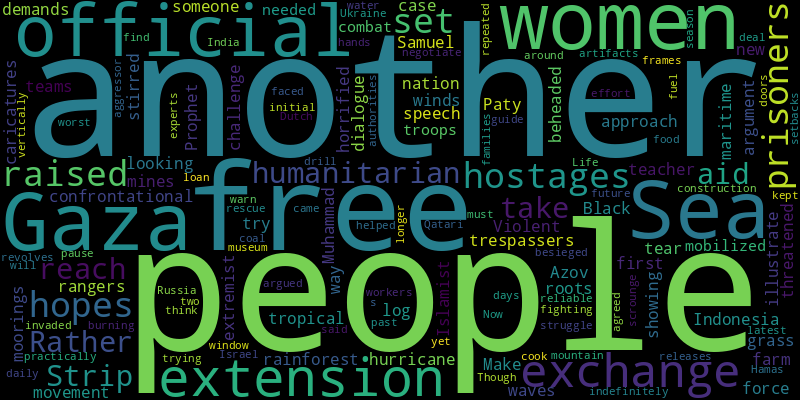
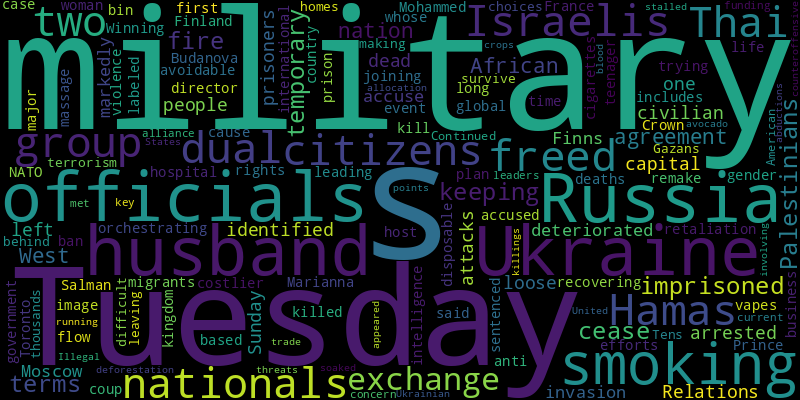
chore(bot): 😱 auto commit

diff --git a/README.md b/README.md
@@ -2,41 +2,41 @@
 Auto RSS New York Times and Generate Word Cloud
 
 ## New York Times Global News
-* The extension, and another exchange of hostages and prisoners, raised hopes that more people would be set free and more humanitarian aid would reach people in the Gaza Strip.
-* Rather than take a confrontational approach with trespassers looking to farm or log in a tropical rainforest in Indonesia, teams of women rangers try dialogue first.
-* Violent waves stirred by hurricane-force winds threatened to tear maritime mines from their moorings in the Sea of Azov and the Black Sea.
-* The teacher, Samuel Paty, was beheaded by an Islamist extremist in 2020 after showing caricatures of the Prophet Muhammad to illustrate free speech. The case horrified the nation.
-* “Make way for someone else,” a new grass-roots movement demands as women challenge the official argument that the mobilized troops are needed in combat indefinitely.
-* Life in besieged Gaza revolves around a daily struggle to find food and water. With practically no fuel or coal, families are burning doors and window frames to cook what they can scrounge.
-* The latest releases came after Qatari officials, who helped negotiate the initial deal, said Israel and Hamas had agreed to pause fighting for another two days.
-* The effort to rescue 41 construction workers in India has faced repeated setbacks. Now the authorities are trying to drill vertically through a mountain.
-* The artifacts were on loan to a Dutch museum when Russia invaded in 2014. Ukraine argued that they must be kept out of the aggressor’s hands.
-* Though experts do not think that this season will be the worst yet, they also warn that the past is no longer a reliable guide to the future.
+* Hamas freed a group of 10 Israelis or dual nationals and two Thai citizens on Tuesday in exchange for 30 imprisoned Palestinians, keeping with the terms of the temporary cease-fire agreement.
+* The West African nation has not identified the military officials and one civilian it arrested after attacks in the capital on Sunday that left 20 people dead and more than 2,000 prisoners on the loose.
+* Relations have deteriorated markedly since Russia’s invasion of Ukraine, and the Finns accuse Moscow of orchestrating a flow of migrants in retaliation for Finland joining NATO.
+* Marianna Budanova, whose husband is the director of military intelligence, is recovering in a hospital, the officials said. Her husband has long accused Russia of trying to kill him.
+* A government anti-smoking plan also includes costlier cigarettes and a ban on disposable vapes. Smoking is the leading cause of avoidable deaths in France.
+* Winning the rights to host the major global event is a coup for Crown Prince Mohammed bin Salman’s efforts to remake the kingdom’s international image.
+* A Toronto teenager who killed a woman in a massage business was sentenced on Tuesday to life in prison. The case was the first time gender-based violence in the country was labeled terrorism.
+* Tens of thousands of Gazans are making the most difficult of choices, leaving their homes behind to survive.
+* Continued American funding for Ukraine was a key concern for leaders in the military alliance, who met as the current allocation was running down and a Ukrainian counteroffensive appeared stalled.
+* Illegal deforestation for avocado crops points to a blood-soaked trade with the United States involving threats, abductions and killings.
 
 ![Global](./global.png)
 ## New York Times United States News
-* Jason J. Eaton, 48, of Burlington, was charged with shooting three college students of Palestinian descent on Saturday outside the building where the police said he lives.
-* Portland students have struggled with absenteeism since the pandemic,
-* Pentagon researchers say weapons like shoulder-fired rockets expose troops who fire them to blast waves far above safety limits, but they remain in wide use.
-* Nadia Mohamed, the 27-year-old mayor-elect of St. Louis Park, Minn., says her win is just the first chapter.
-* Former President Jimmy Carter will emerge from hospice care to join a cast of political heavyweights paying tribute on Tuesday to Mrs. Carter, who died at 96 last week at her home in Plains, Ga.
-* American officials have told the Israelis that a major bombardment risks sparking a humanitarian crisis that overwhelms the world’s capacity to respond.
-* Illegal deforestation for avocado crops points to a blood-soaked trade with the United States involving threats, abductions and killings.
+* “Come hell or high water, Jimmy Carter was going to use his inner resources to be there,” the presidential historian Douglas Brinkley said of Mr. Carter’s emerging from hospice care for his wife’s memorial service.
 * “We need protection,” one migrant at the U.S. border said. But the legal system for refugees never envisioned the millions displaced by global warming.
-* The president’s aides quickly jumped on a statement by Donald Trump that he was “seriously looking at alternatives” to the health law.
-* A federal law imposes a mandatory 15-year sentence for possessing a gun after committing three serious drug offenses. But which offenses count?
+* Their marriage was admired for its endurance — 77 years — and for the affection between the two people in it. “It radiated,” one acquaintance said.
+* These new works of fiction and nonfiction vividly render the state’s past and present.
+* For six days, politicians from both sides of the aisle and other Kansans expressed their distaste for what was supposed to have been the state’s new license plate.
+* Plus, Hamas releases 12 more hostages, the true cost of avocados and Google says it will start purging accounts.
+* She rose to become the most politically active first lady since Eleanor Roosevelt. Yet her life began and ended dozens of miles from any interstate highway or even a stoplight.
+* The crowds are her biggest yet, and voters are warming up to her candidacy, but Nikki Haley still faces a daunting task in taking down the front-runner, Donald Trump.
+* Democrats are clashing with each other and the Biden administration over whether to attach conditions, including measures to avoid civilian casualties, to a major infusion of security assistance.
+* Legal challenges are pending across the country against a federal law that prevents medical marijuana users from buying or owning firearms.
 
 ![US](./usnews.png)
 ## New York Times Asia News
-* After repeated mechanical setbacks, the Indian operation turned to trained miners using manual tools to clear the final stretch of debris.
+* The incident comes three months after three Marines died in an Osprey crash in Australia.
+* Some firms argue that a law aimed at popularizing electric vehicles risks turning the United States into an assembly shop for Chinese-made technology.
+* Plus how New Zealand’s Maori Wardens keep the peace.
+* Winning the rights to host the major global event is a coup for Crown Prince Mohammed bin Salman’s efforts to remake the kingdom’s international image.
+* After repeated mechanical setbacks, the operation turned to trained miners using manual tools to clear the final stretch of debris.
 * The flow of students between the countries has been a mainstay of their relationship, even when ties have soured. Now these exchanges, too, are under threat.
 * The government is preparing to present its energy transition plan at the U.N. climate talks as it intensifies a crackdown on environmental advocates.
 * The law, celebrated as a model for other countries, would have eventually made tobacco illegal.
 * Chinese families are sending money overseas, a sign of worry about the country’s economic and political future. But a cheaper currency is also helping exports.
 * The strategies used by the Indigenous community policing alternative are in stark contrast to more muscular tactics pitched by the incoming government.
-* Plus Indonesia’s female forest rangers.
-* American spy agencies have warned about the Emirati firm G42 and its work with large Chinese companies that U.S. officials consider security threats.
-* The effort to rescue 41 construction workers in India has faced repeated setbacks. Now the authorities are trying to drill vertically through a mountain.
-* Rather than take a confrontational approach with trespassers looking to farm or log in a tropical rainforest in Indonesia, teams of women rangers try dialogue first.
 
 ![Asian](./asian.png)
